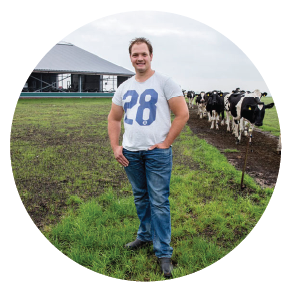
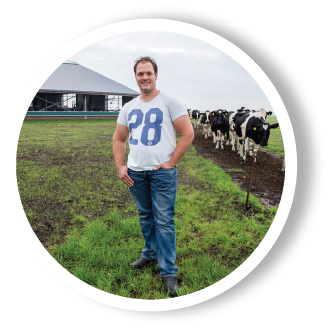
styling

diff --git a/static/css/style.css b/static/css/style.css
@@ -460,23 +460,29 @@ body {
    POPUP CONTENT
 ============================= */
 .leaflet-popup-content-wrapper {
+  display: flex;
+  align-items: center;
   border-top-left-radius: 7em;
   border-bottom-left-radius: 7em;
-  padding: 1.5em;
+  border-top-right-radius: 1.7em;
+  border-bottom-right-radius: 1.7em;
   min-width: 40em;
   max-height: 15em;
+
+  border: 8px solid #1E3881;
 }
 
 .popup-content {
   display: flex;
   align-items: center;
-  gap: 1em;
   width: 35em;
+  transform: translateX(-1.8em);
+  max-height: 10em;
 }
 
 .popup-content h3 {
   margin-top: 0;
-  margin-bottom: 0.5em;
+  margin-bottom: 0.2em;
 }
 
 .popup-content img {
@@ -487,46 +493,101 @@ body {
   margin: 0;
 
   object-fit: cover;
-
 }
 
 .popup-content p {
-  margin-bottom: 0.8em;
+  margin-bottom: 0.1em;
+}
+
+.leaflet-popup-content p {
+  margin-top: 0.5em;
+  margin-bottom: 0.5em;
 }
 
 .popup-info {
   flex: 1;
   min-width: 0;
+
+  display: flex;
+  flex-direction: column;
 }
 
+.popup-info h3 {
+  color: #1E3881;
+  align-self: center;
+  text-align: center;
+}
+
+.popup-info h3::after {
+  content: "";
+
+  display: block;
+  align-self: center;
+
+  width: 12em;
+  height: 0.12em;
+
+  background: #2128B8;
+  border-radius: 999em;
+}
+
+.read-more-btn {
+  align-self: flex-end;
+}
+
+.leaflet-popup-tip {
+  background: #1E3881;
+}
+
+.leaflet-popup-close-button {
+  padding-top: 0.5em;
+  padding-right: 0.5em;
+}
 
 /* =============================
    BUTTONS
 ============================= */
-.read-more-btn,
-.kopen-btn {
+.read-more-btn {
+  align-self: flex-end;
+
+  display: inline-flex;
+  align-items: center;
+  gap: 0.4em;
+
   border: none;
+  background: transparent;
 
-  background: #2e7d32;
+  color: #00BBFF;
 
-  color: white;
+  text-decoration: underline;
+  text-underline-offset: 0.14em;
 
-  padding:
-    0.7em 1.1em;
-
-  border-radius: 0.5em;
-
+  padding: 0;
   cursor: pointer;
 
-  transition:
-    background 0.2s ease;
+  transition: color 0.2s ease;
 }
 
+.read-more-btn::after {
+  content: "";
+  display: inline-block;
 
-/* hover */
-.read-more-btn:hover,
-.kopen-btn:hover {
-  background: #256428;
+  width: 0.6em;
+  height: 0.6em;
+
+  background: currentColor;
+
+  clip-path: polygon(0 0, 100% 50%, 0 100%);
+
+  transition: transform 0.2s ease;
+}
+
+.read-more-btn:hover {
+  color: #101a8e;
+}
+
+.read-more-btn:hover::after {
+  transform: translateX(0.2em);
 }
 
 
